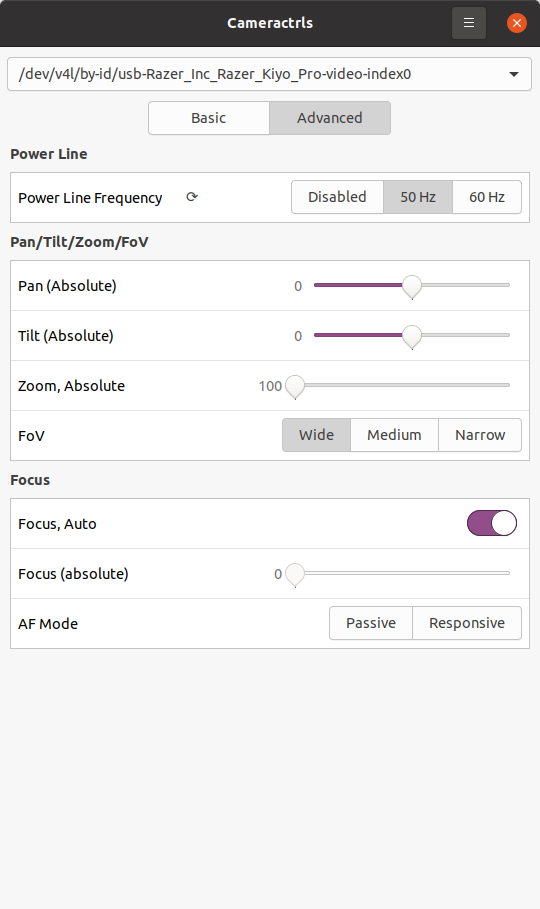
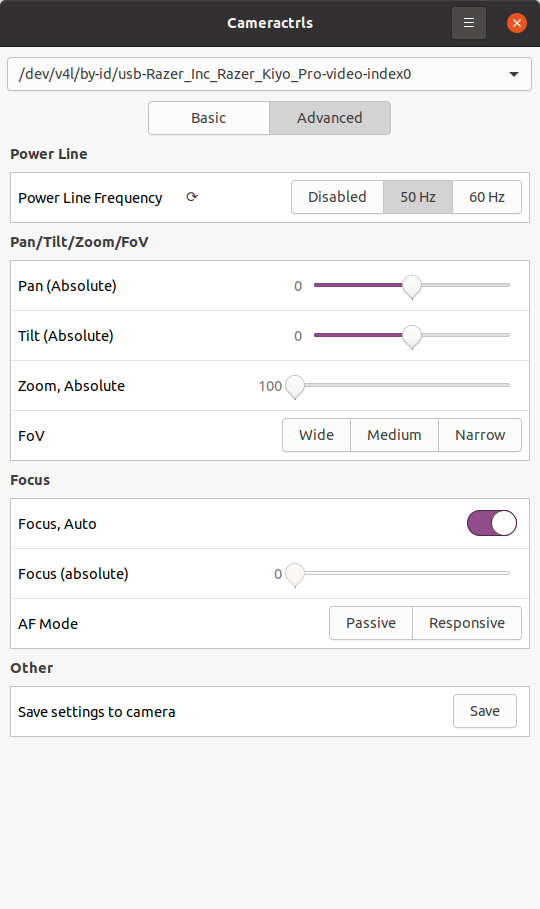
kiyo_pro: add save control

diff --git a/cameractrls.py b/cameractrls.py
@@ -330,8 +330,8 @@ class BaseCtrlMenu:
         self.value = value
 
 class KiyoCtrl(BaseCtrl):
-    def __init__(self, text_id, name, menu):
-        super().__init__(text_id, name, 'menu', menu=menu)
+    def __init__(self, text_id, name, type, menu):
+        super().__init__(text_id, name, type, menu=menu)
 
 class KiyoMenu(BaseCtrlMenu):
     def __init__(self, text_id, name, value, before = None):
@@ -359,6 +359,7 @@ class KiyoProCtrls:
             KiyoCtrl(
                 'kiyo_pro_af_mode',
                 'AF Mode',
+                'menu',
                 [
                     KiyoMenu('passive', 'Passive', AF_PASSIVE),
                     KiyoMenu('responsive', 'Responsive', AF_RESPONSIVE),
@@ -367,6 +368,7 @@ class KiyoProCtrls:
             KiyoCtrl(
                 'kiyo_pro_hdr',
                 'HDR',
+                'menu',
                 [
                     KiyoMenu('off', 'Off', HDR_OFF),
                     KiyoMenu('on', 'On', HDR_ON),
@@ -375,6 +377,7 @@ class KiyoProCtrls:
             KiyoCtrl(
                 'kiyo_pro_hdr_mode',
                 'HDR Mode',
+                'menu',
                 [
                     KiyoMenu('bright', 'Bright', HDR_BRIGHT),
                     KiyoMenu('dark', 'Dark', HDR_DARK),
@@ -383,10 +386,19 @@ class KiyoProCtrls:
             KiyoCtrl(
                 'kiyo_pro_fov',
                 'FoV',
+                'menu',
                 [
                     KiyoMenu('wide', 'Wide', FOV_WIDE),
                     KiyoMenu('medium', 'Medium', FOV_MEDIUM, FOV_MEDIUM_PRE),
                     KiyoMenu('narrow', 'Narrow', FOV_NARROW, FOV_NARROW_PRE),
+                ]
+            ),
+            KiyoCtrl(
+                'kiyo_pro_save',
+                'Save settings to camera',
+                'button',
+                [
+                    KiyoMenu('save', 'Save', SAVE),
                 ]
             ),
         ]
@@ -410,7 +422,6 @@ class KiyoProCtrls:
 
             query_xu_control(self.fd, self.unit_id, EU1_SET_ISP, UVC_SET_CUR, to_buf(menu.value))
 
-        query_xu_control(self.fd, self.unit_id, EU1_SET_ISP, UVC_SET_CUR, to_buf(SAVE))
 
     def update_ctrls(self):
         return
@@ -708,15 +719,18 @@ class CameraCtrls:
     
     def print_ctrls(self):
         for c in self.get_ctrls():
-            print(f'{c.text_id} = ', end = '')
+            print(f'{c.text_id}', end = '')
             if c.type == 'menu':
-                print(f'{c.value}\t( ', end = '')
+                print(f' = {c.value}\t( ', end = '')
                 if c.default:
                     print(f'default: {c.default} ', end = '')
                 print('values:', end = ' ')
                 print(', '.join([m.text_id for m in c.menu]), end = ' )')
+            elif c.type == 'button':
+                print('\t\t( buttons: ', end = '')
+                print(', '.join([m.text_id for m in c.menu]), end = ' )')
             elif c.type in ['integer', 'boolean']:
-                print(f'{c.value}\t( default: {c.default} min: {c.min} max: {c.max}', end = '')
+                print(f' = {c.value}\t( default: {c.default} min: {c.min} max: {c.max}', end = '')
                 if c.step != 1:
                     print(f' step: {c.step}', end = '')
                 print(' )', end = '')

diff --git a/cameractrlstk.py b/cameractrlstk.py
@@ -59,6 +59,7 @@ class CameraCtrlsGui:
 
         s = ttk.Style()
         s.configure('BorderlessShort.TButton', padding=[10,0,10,0], borderwidth=0)
+        s.configure('Short.TButton', padding=[10,0,10,0])
 
         head = ttk.Frame(self.window)
         head.grid(row=1, sticky='E')
@@ -130,7 +131,7 @@ class CameraCtrlsGui:
 
             if c.type == 'integer':
                 c.var = IntVar(cframe, c.value)
-                c.var.trace_add('write', lambda v,a,b,ctrl=c: self.update_ctrl(ctrl))
+                c.var.trace_add('write', lambda v,a,b,c=c: self.update_ctrl(c, c.var.get()))
                 # ttk.Scale doesn't support resolution, using tk.Scale
                 sc = Scale(cframe, from_=c.min, to=c.max, resolution=c.step, variable=c.var, showvalue=False, orient='horizontal')
                 sc.grid(row=row,column=1, sticky='NESW', ipadx=2)
@@ -142,14 +143,22 @@ class CameraCtrlsGui:
                 menuctrls = ttk.Frame(cframe)
                 menuctrls.grid(row=row, column=1, sticky='NESW')
                 c.var = IntVar(menuctrls, c.value)
-                c.var.trace_add('write', lambda v,a,b,ctrl=c: self.update_ctrl(ctrl))
+                c.var.trace_add('write', lambda v,a,b,c=c: self.update_ctrl(c, c.var.get()))
                 ttk.Radiobutton(menuctrls, text='Off', variable=c.var, value=0).grid(row=0, column=0, sticky='NESW', ipadx=10)
                 ttk.Radiobutton(menuctrls, text='On', variable=c.var, value=1).grid(row=0, column=1, sticky='NESW', ipadx=10)
                 c.gui_ctrls = menuctrls.winfo_children()
 
+            elif c.type == 'button':
+                buttonctrls = ttk.Frame(cframe)
+                buttonctrls.grid(row=row, column=1, sticky='NESW')
+                for m in c.menu:
+                    ttk.Button(buttonctrls, text=m.name, style='Short.TButton', command=lambda c=c,m=m: self.update_ctrl(c, m.text_id)).grid(column=column, row=0, sticky='NESW', ipadx=10)
+                    column += 1
+                c.gui_ctrls = buttonctrls.winfo_children()
+
             elif c.type == 'menu':
                 c.var = StringVar(cframe, c.value)
-                c.var.trace_add('write', lambda v,a,b,ctrl=c: self.update_ctrl(ctrl))
+                c.var.trace_add('write', lambda v,a,b,c=c: self.update_ctrl(c, c.var.get()))
                 if len(c.menu) < 4:
                     menuctrls = ttk.Frame(cframe)
                     menuctrls.grid(row=row, column=1, sticky='NESW')
@@ -173,8 +182,8 @@ class CameraCtrlsGui:
 
         self.update_ctrls_state()
 
-    def update_ctrl(self, ctrl):
-        self.camera.setup_ctrls({ctrl.text_id: ctrl.var.get()}),
+    def update_ctrl(self, ctrl, value):
+        self.camera.setup_ctrls({ctrl.text_id: value}),
         if ctrl.updater:
             self.camera.update_ctrls()
         self.update_ctrls_state()

diff --git a/cameractrlsgtk.py b/cameractrlsgtk.py
@@ -246,6 +246,15 @@ class CameraCtrlsGui:
                         c.gui_ctrls =  [switch, refresh]
                         c.gui_default_btn = refresh
 
+                    elif c.type == 'button':
+                        c.gui_ctrls =  []
+                        for m in c.menu:
+                            b = Gtk.Button(label=m.name, valign=Gtk.Align.CENTER, margin_right=5)
+                            b.connect('clicked', lambda e,c=c: self.update_ctrl(c, m.text_id))
+                            ctrl_box.pack_end(b, False, False, 0)
+                            c.gui_ctrls += b
+                        c.gui_default_btn = None
+
                     elif c.type == 'menu':
                         if len(c.menu) < 4:
                             box = Gtk.ButtonBox(valign=Gtk.Align.CENTER)
@@ -301,7 +310,8 @@ class CameraCtrlsGui:
         for c in self.camera.get_ctrls():
             for gui_ctrl in c.gui_ctrls:
                 gui_ctrl.set_sensitive(not c.inactive)
-            c.gui_default_btn.set_opacity(0 if c.default == None or c.default == c.value else 1)
+            if c.gui_default_btn != None:
+                c.gui_default_btn.set_opacity(0 if c.default == None or c.default == c.value else 1)
 
     def start(self):
         self.window.show_all()

diff --git a/README.md b/README.md
@@ -48,6 +48,7 @@ kiyo_pro_af_mode = None	( values: passive, responsive )
 kiyo_pro_hdr = None	( values: off, on )
 kiyo_pro_hdr_mode = None	( values: bright, dark )
 kiyo_pro_fov = None	( values: wide, medium, narrow )
+kiyo_pro_save		( buttons: save )
 ```
 
 
